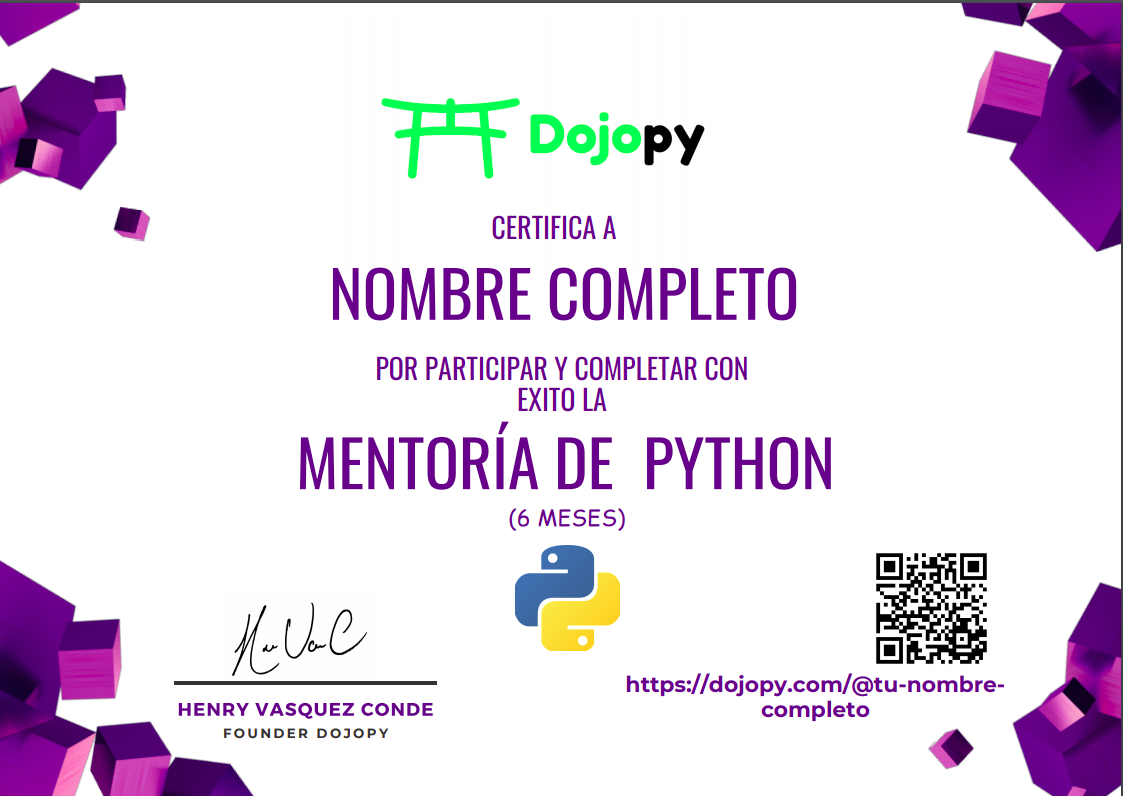
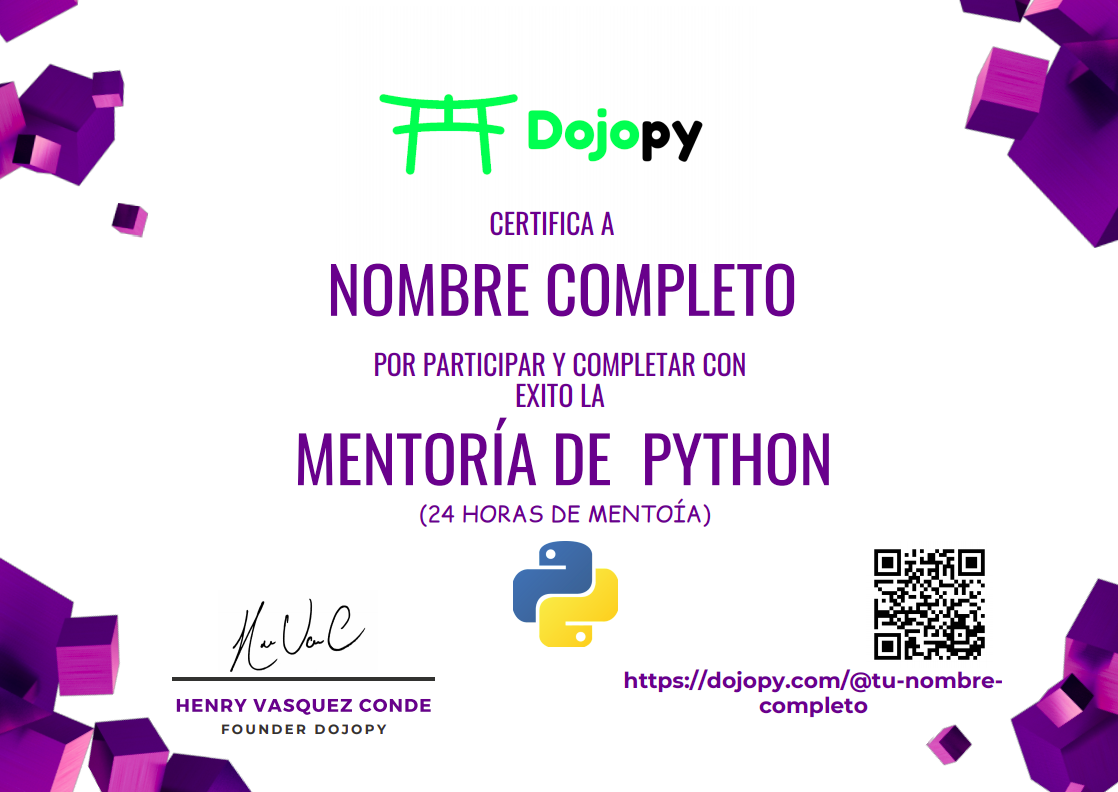
add video

diff --git a/templates/python_mentor.html b/templates/python_mentor.html
@@ -2,7 +2,7 @@
 {% load static %}
 
 {% block title %}
-<title>Dojopy - Taller Python</title>
+<title>Dojopy - Mentoría Python</title>
 {% endblock %}
 
 {% block preview_fb %}
@@ -25,7 +25,11 @@
             <div class="col-lg-12">
                 <div class="breadcrumb_iner text-center">
                     <div class="breadcrumb_iner_item">
-                        <h2>Python de Cero a Ninja<br> con tu Mentor</h2>
+                        <h2>Aprende Python <br> con tu Mentor </h2>
+                        <div class="title">
+                            <img height="40" src="/static/base/img/live-code.png" alt="">
+                        </div>
+
                         <p style="font-size:1.4rem; color:white"><i> Now is better than never</i> </p>
                         <p style="font-size:1.4rem; color:white"><i> - Zen Python</i> </p>
                     </div>
@@ -81,6 +85,16 @@
                     </div>
                 </div> -->
 
+                <div class="content_wrapper">
+                    <div class="blog_details">
+                        <div class="content" style="text-align:-webkit-center">
+                            <h3 class="title">Live Coding</h3>
+                                <iframe width="{{resolution_x}}" height="{{resolution_y}}" src="https://www.youtube.com/embed/wrHZk-VzF0o" frameborder="0" allow="accelerometer; autoplay; encrypted-media; gyroscope; picture-in-picture" allowfullscreen></iframe>
+                            <br>
+                            <br/>
+                        </div>
+                    </div>
+                </div>
                 <br>
 
                 <div class="content_wrapper">
@@ -93,7 +107,7 @@
                             <h3 class="title">¿ POR QUÉ UN MENTOR ?</h3>
                             <p style="font-size:1.1rem">
                                 En Dojopy tu Mentor te guiará, motivará y responderá todas la preguntas
-                                 o dudas que surjan en esta aventura, con dinámicas de aprendizaje grupal y personalizado (máximo 7 alumnos por sesión videollamada),
+                                 o dudas que surjan en esta aventura, con dinámicas de aprendizaje grupal y personalizado (máximo 7 alumnos por sesión videollamada Skype),
                                 desarrollando proyectos, compartiendo pantalla, videollamada y código en vivo. <br>
                                 Con acceso a la plataforma de proyectos, código y videos exclusivos.
                             </p>
@@ -328,7 +342,12 @@ Python es uno de los lenguajes de programación más valorados y usados a nivel 
                     </div>
                 </div>
 
-
+                <br>
+                <a href="/contacto" class="btn_1 d-block" style="margin:10px;font-size:1.1rem;text-align:center">
+                    <b>
+                        INSCRIBIRME AHORA
+                    </b>
+                </a>
                 <br>
                 <div class="content_wrapper">
                     <div class="blog_details">
@@ -340,8 +359,8 @@ Python es uno de los lenguajes de programación más valorados y usados a nivel 
                             <p>
                                 <ul class="unordered-list" style="font-size:1.1rem">
                                     <li style="margin:5px">Laptop & Computadora</li>
-                                    <li style="margin:5px">Internet Estable</li>
-                                    <li style="margin:5px">Auriculares con micrófonos para Live Coding y videollamada</li>
+                                    <li style="margin:5px">Conexión de Internet</li>
+                                    <li style="margin:5px">Auriculares con micrófonos para Live Streaming y videollamada Skype</li>
                                 </ul>
                             </p>
                         </div>
@@ -369,27 +388,23 @@ Python es uno de los lenguajes de programación más valorados y usados a nivel 
                                 </p>
                             </li>
                             <li>
+                                <p style="font-size:1.1rem; margin:5px">
+                                    24 horas de Mentoría videollamada y Live Streaming (Skype)
+                                </p>
+                            </li>
+                            <li>
                                 <p style="font-size:1.1rem; margin:5px">Acceso 24/7 a la plataforma de proyectos, código y videos exclusivos.</p>
                             </li>
                             <li>
                                 <p style="font-size:1.1rem; margin:5px">Aprende creando proyectos reales.</p>
                             </li>
                             <li>
-                                <p style="font-size:1.1rem; margin:5px">Mentoría durante 5 meses <br> (Mentoría & videollamada & Plataforma) </p>
+                                <p style="font-size:1.1rem; margin:5px">Mentoría durante 2 meses <br> (Mentoría & videollamada & Plataforma) </p>
                                 <ul class="unordered-list">
                                     <li style="font-size:1.1rem;color:#666666"> 4 sesiones mensual </li>
                                     <li style="font-size:1.1rem;color:#666666"> 1 sesión de 3 horas(break de 15m) a la semana</li>
                                     <li style="font-size:1.1rem;color:#666666"> 12 horas de mentoring mensual</li>
                                 </ul>
-                            </li>
-                            <li>
-                                <p style="font-size:1.1rem; margin:5px">Al culminar la mentoría de 5 meses obtendrás tu propio BLOG inspirado en Medium con integracion de Pasarelas de Pago para tu portafolio o uso personal. </p>
-                            </li>
-                            <li>
-                                <p style="font-size:1.1rem; margin:5px">Al culminar la mentoría de 5 meses obtendrás tu propio Ecommerce basado en Python/django con multiples Pasarelas de Pago. </p>
-                            </li>
-                            <li>
-                                <p style="font-size:1.1rem; margin:5px">Mentalidad Startup </p>
                             </li>
                             <div>
                                 <li>
@@ -418,27 +433,20 @@ Python es uno de los lenguajes de programación más valorados y usados a nivel 
 
         </div>
 
-        <div class="content_wrapper">
+
+
+     <div class="content_wrapper">
             <div class="blog_details">
                 <div class="content">
                     <div class="title">
-                        <img height="85" src="/static/base/img/mentor_mentor.png" alt="">
+                        <img height="85" src="/static/base/img/plan-de-estudio.png" alt="">
                     </div>
-                    <h3 class="title">¿ YA PROGRAMAS EN PYTHON Y QUIERES SER MENTOR ?</h3>
-                    <p>
-                        <ul class="unordered-list" style="font-size:1.1rem">
-                            <li style="margin:5px">Dojopy está buscando programadores apasionados por la enseñanza que quieran generar un impacto en todo el mundo!</li>
-                            <li style="margin:5px">Si conoces lo básico de Python y no cubres todas las áreas que ofrecemos, Dojopy te mentorizara personalmente y continuamente. </li>
-                            <li style="margin:5px">No te preocupes por preparar contenido o plan de estudios, Dojopy se encarga de crear el contenido. </li>
-                            <li style="margin:5px">Obtenga valiosas experiencias y perfecciona tus habilidades personales y de enseñanza.</li>
-                            <li style="margin:5px">Sé un Mentor en Dojopy, inspira, motiva, brinda orientación a los nuevos programadores de todo el mundo!</li>
-                            <li style="margin:5px">Genera tus propios ingresos económicos con horarios flexibles</li>
-                        </ul>
-                    </p>
+                    <h3 class="title">PLAN DE ESTUDIO MES 1 Y 2</h3>
+
                 </div>
-                <a href="https://{{uri_whatsapp}}.whatsapp.com/send?phone=51935489552&text=Hola!%2C%20quiero%20convertirme%20en%20Mentor." class="btn_1 d-block" style="margin:10px;font-size:1.1rem;text-align:center">
+                <a href="/startup/python-plan-mes-1-2" class="btn_1 d-block" style="margin:10px;font-size:1.1rem;text-align:center;background-image: linear-gradient(to left, #FC42CC 0%, #FF446B 100%)">
                     <b>
-                        Quiero Convertirme en Mentor
+                        VER TEMARIO
                     </b>
                 </a>
             </div>

diff --git a/templates/contacto.html b/templates/contacto.html
@@ -14,26 +14,26 @@
             <div class="row justify-content-center">
                  <div class="col-xl-5">
                     <div class="section_tittle text-center">
+                        <br>
                         <p><i> Now is better than never</i> </p>
-                        <p><i> Zen Python</i> </p>
                         <h2>Unete a Dojopy</h2>
                     </div>
                 </div>
                 <div class="col-10">
                 </div>
-                <div class="col-7">
-                    <input type="text" id="username" name="name" placeholder="Tu Nombre" onfocus="this.placeholder = ''" onblur="this.placeholder = 'Tu Nombre'" required="" class="single-input" style=" border:1px solid #9ff669;" >
+                <div class="col-9">
+                    <input type="text" id="username" name="name" placeholder="Nombre" onfocus="this.placeholder = ''" onblur="this.placeholder = 'Nombre'" required="" class="single-input" style=" border:1px solid #9ff669;" >
                     <br>
-                    <input type="text" id="email" name="email" placeholder="Tu Email" onfocus="this.placeholder = ''" onblur="this.placeholder = 'Tu Email'" required="" class="single-input" style=" border:1px solid #9ff669;">
+                    <input type="text" id="email" name="email" placeholder="Email" onfocus="this.placeholder = ''" onblur="this.placeholder = 'Email'" required="" class="single-input" style=" border:1px solid #9ff669;">
                     <br>
-                    <input type="text" id="phone" name="phone" placeholder="Tu Telefono Móvil o Whatsapp" onfocus="this.placeholder = ''" onblur="this.placeholder = 'Tu Telefono Móvil o Whatsapp'" required="" class="single-input" style=" border:1px solid #9ff669;">
+                    <input type="text" id="phone" name="phone" placeholder="Telefono Móvil o Whatsapp" onfocus="this.placeholder = ''" onblur="this.placeholder = 'Telefono Móvil o Whatsapp'" required="" class="single-input" style=" border:1px solid #9ff669;">
                     <br>
-                    <input type="text" id="message" name="message" placeholder="Tu Mensaje" onfocus="this.placeholder = ''" onblur="this.placeholder = 'Tu mensaje'" required="" class="single-input" style=" border:1px solid #9ff669;">
+                    <input type="text" id="message" name="message" placeholder="Mensaje" onfocus="this.placeholder = ''" onblur="this.placeholder = 'mensaje'" required="" class="single-input" style=" border:1px solid #9ff669;">
                     <br>
                 </div>
                 <div class="col-10">
                 </div>
-                <button id="join_dojopy" class="col-4 btn btn_1" type="button">Enviar  <i class="ti-angle-right"></i></button>
+                <button id="join_dojopy" class="col-5 btn btn_1" type="button">Enviar  <i class="ti-angle-right"></i></button>
                 <div class="col-12">
 
                 </div>

diff --git a/templates/fecha_inicio.html b/templates/fecha_inicio.html
@@ -5,22 +5,24 @@
             <p>
                 <ul class="unordered-list" style="font-size:1.1rem">
                     <li style="margin:5px;color:#666666"> <del> Viernes 6 de Diciembre(Horario de Mañana).</del> <br> <span style="color:red">&nbsp; Cupos Agotados</span> </li>
-                    <li style="margin:5px;color:#666666">Sábado 7 de Diciembre(Horario de Mañana). <br> <span style="color:green">&nbsp; 3 Cupos Libre</span> </li>
-                    <li style="margin:5px;color:#666666">Domingo 8 de Diciembre(Horario de Mañana). <br> <span style="color:green">&nbsp; 4 Cupos Libre</span></li>
-                    <li style="margin:5px;color:#666666">Sábado 14 de Diciembre(Horario de Mañana). <br> <span style="color:green">&nbsp; 5 Cupos Libre</span> </li>
-                    <li style="margin:5px;color:#666666">Domingo 15 de Diciembre(Horario de Mañana). <br> <span style="color:green">&nbsp; 5 Cupos Libre</span></li>
+                    <li style="margin:5px;color:#666666">Sábado 7 de Diciembre(Horario Mañana y Tarde). <br> <span style="color:green">&nbsp; 3 Cupos Libre</span> </li>
+                    <li style="margin:5px;color:#666666">Domingo 8 de Diciembre(Horario Mañana y Tarde). <br> <span style="color:green">&nbsp; 3 Cupos Libre</span></li>
+                    <li style="margin:5px;color:#666666">Viernes 20 de Diciembre(Horario Mañana y Tarde). <br> <span style="color:green">&nbsp; 7 Cupos Libre</span> </li>
+                    <li style="margin:5px;color:#666666">Sábado 21 de Diciembre(Horario Mañana y Tarde). <br> <span style="color:green">&nbsp; 7 Cupos Libre</span> </li>
+                    <li style="margin:5px;color:#666666">Domingo 22 de Diciembre(Horario Mañana y Tarde). <br> <span style="color:green">&nbsp; 7 Cupos Libre</span></li>
 
                 </ul>
             </p>
             <hr>
-            <h3 class="title" style="">Horario de transmisión Mañana <br> (Live Coding)</h3>
+            <h3 class="title" style="">Horarios de Mentoría <br> (Live Coding)</h3>
 
             <ul class="unordered-list" style="font-size:1.1rem">
-                <li style="margin:5px;color:#666666">Horario 9:00AM - 12:00PM  </li>
+                <li style="margin:5px;color:#666666">Horario 9:00AM - 12:00PM  y 2:00PM - 5:00pm</li>
                 <li style="margin:5px;color:#666666">  Zona horaria(America/Lima) / UTC-5</li>
                 <li style="margin:5px;color:#666666">Sesiones(Live Coding & videollamada) de 3 horas(break de 15m)</li>
                 <li style="margin:5px;color:#666666">1 sesión semanal</li>
                 <li style="margin:5px;color:#666666">12 horas de mentoría mensual</li>
+                <li style="margin:5px;color:#666666">Total 24 horas de mentoría (2 meses)</li>
             </ul>
             <hr>
             <h3 class="title" style="">¿ Si pierdo la Sesión Live Coding ?</h3>

diff --git a/templates/base.html b/templates/base.html
@@ -124,7 +124,7 @@
                                     <a class="nav-link" href="/">Dojopy</a>
                                 </li>
                                 <li class="nav-item active">
-                                    <a class="nav-link" href="/startup/python">Mentorías</a>
+                                    <a class="nav-link" href="/mentor/python">Mentorías</a>
                                 </li>
                                 <li class="nav-item">
                                     <a class="nav-link" href="/shop">Shop</a>
@@ -370,9 +370,6 @@
                         <h4>Contáctanos</h4>
                         <div class="contact_info">
                             <p><span> Email : </span>info@dojopy.com </p>
-                            <p><span> Phone: </span><a href="tel:+51935489552"> +51 935 489 552</a>
-                                <p><span> Phone: </span><a href="tel:+51935489552"> +51 01 6879 722</a>
-                            <!-- <p><span> Phone :</span> +51 935 489 552</p> -->
                         </div>
                     </div>
                 </div>
@@ -441,6 +438,7 @@ Copyright &copy;<script>document.write(new Date().getFullYear());</script> Dojop
                .done(function(data){
                    $("#join_dojopy").notify("Gracias! por unirte a Dojopy", "success");
                    $("#join_dojopy_").notify("Gracias! por unirte a Dojopy", "success");
+                   window.location.href = "https://{{uri_whatsapp}}.whatsapp.com/send?phone=51935489552&text=Hola!%20quiero%20inscribirme.";
 
                })
                .fail(function(data){
@@ -481,7 +479,7 @@ Copyright &copy;<script>document.write(new Date().getFullYear());</script> Dojop
 
     <script async defer crossorigin="anonymous" src="https://connect.facebook.net/es_LA/sdk.js#xfbml=1&version=v5.0&appId=545900825933696&autoLogAppEvents=1"></script>
 
-    <script type="text/javascript">
+    <!-- <script type="text/javascript">
     var endDate = new Date("Dec 25, 2019 12:00:00").getTime();
 
     var timer = setInterval(function() {
@@ -516,7 +514,7 @@ Copyright &copy;<script>document.write(new Date().getFullYear());</script> Dojop
 
     }, 1000);
 
-    </script>
+    </script> -->
 </body>
 
 </html>

diff --git a/templates/python_startup.html b/templates/python_startup.html
@@ -47,7 +47,7 @@
 
             <div class="col-lg-7 course_details_left">
 
-                <div class="content_wrapper">
+                <!-- <div class="content_wrapper">
                     <div class="blog_details">
                         <div class="content">
                             <h3 class="title">Mentoría Online en Vivo</h3>
@@ -58,9 +58,7 @@
                             <span  style="font-size:30px" class="flag-icon flag-icon-{{country_flag}}"></span>
                         </div>
                         <br>
-
-
-                            <!-- <div class="container">
+                         <div class="container">
                                 <p id="timer" style="font-size:1.5rem;text-align:-webkit-center;color:#0c2e60">
                                     OFERTA TERMINA EN: <br>
                                     <span id="timer-days"></span>:
@@ -68,7 +66,7 @@
                                     <span id="timer-mins"></span>:
                                     <span id="timer-secs"></span>
                                 </p>
-                            </div> -->
+                            </div>
                             <a href="https://{{uri_whatsapp}}.whatsapp.com/send?phone=51935489552&text=Hola!%2C%20quiero%20inscribirme." class="btn_1 d-block" style="margin:10px;font-size:1.1rem;text-align:center">
                                 <b>
                                     INSCRIBIRME AHORA
@@ -81,7 +79,7 @@
                             </a>
                         </div>
                     </div>
-                </div>
+                </div> -->
 
                 <!-- <div class="main_image">
                     <img class="img-fluid" src="/static/base/img/single_cource.png" alt="">

diff --git a/templates/python_plan_mes_1_2.html b/templates/python_plan_mes_1_2.html
@@ -75,8 +75,12 @@
                                 </div>
                             </div>
                         </div>
-
-
+                        <br>
+                        <a href="/contacto" class="btn_1 d-block" style="margin:10px;font-size:1.1rem;text-align:center">
+                            <b>
+                                INSCRIBIRME AHORA
+                            </b>
+                        </a>
 
 
     </div>

diff --git a/mentor/views.py b/mentor/views.py
@@ -17,6 +17,8 @@ def python_mentor(request):
          'uri_whatsapp': uri_whatsapp,
            'mount': mount,
             'simbol': simbol,
+            'resolution_x': '310',
+            'resolution_y': '360',
             'country_flag': country_code.lower()})
     else:
         uri_whatsapp = "web"
@@ -24,6 +26,8 @@ def python_mentor(request):
          'uri_whatsapp': uri_whatsapp,
            'mount': mount,
             'simbol': simbol,
+            'resolution_x': '565',
+            'resolution_y': '315',
             'country_flag': country_code.lower()})  #country_code.lower()
 
 

diff --git a/startup/views.py b/startup/views.py
@@ -34,7 +34,7 @@ def home(request):
         uri_whatsapp = 'api'
     else:
         uri_whatsapp = 'web'
-    return render(request, 'base.html', {'uri_whatsapp': uri_whatsapp})
+    return render(request, 'python_startup.html', {'uri_whatsapp': uri_whatsapp})
 
 
 def python_startup(request):
